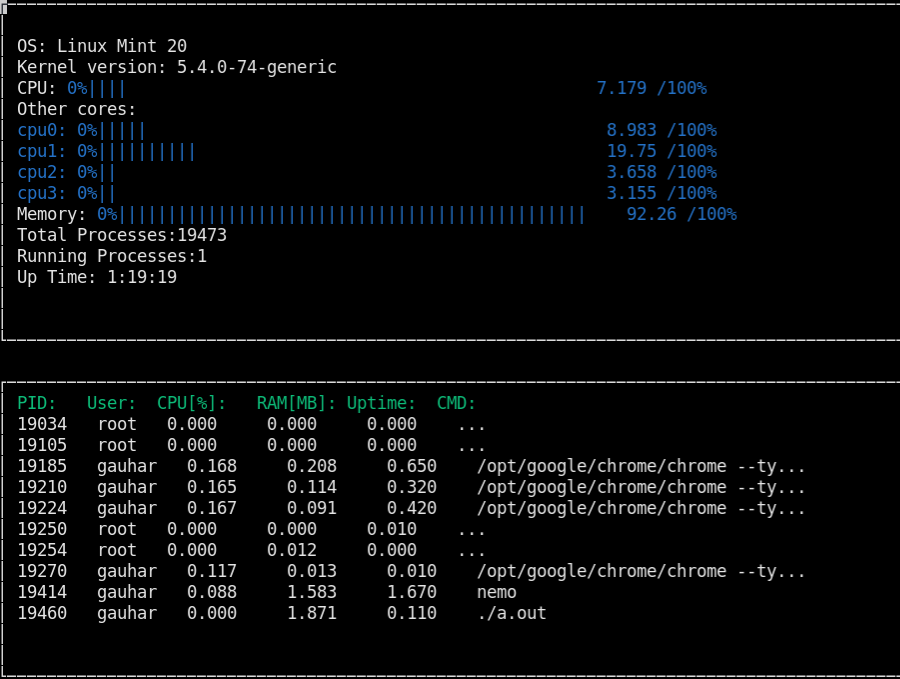
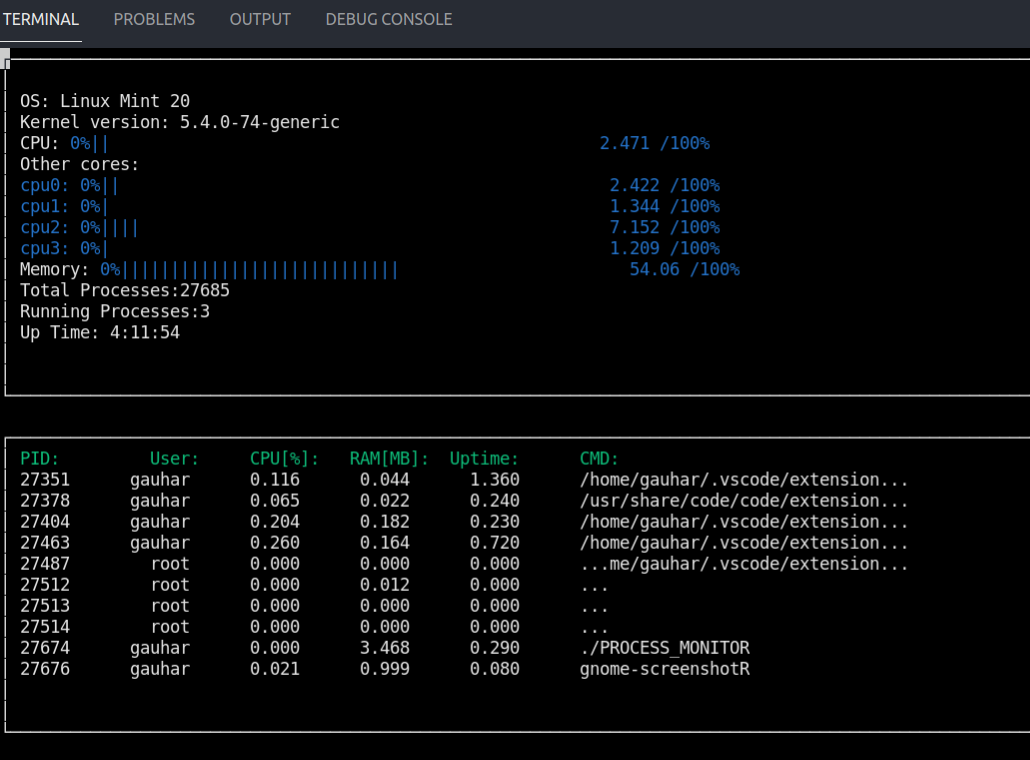
updated spacing in process list columns

diff --git a/src/Process.h b/src/Process.h
@@ -52,16 +52,22 @@ string Process::getProcess() {
     this->mem = ProcessParser::getVmSize(this->pid);
     this->upTime = ProcessParser::getProcUpTime(this->pid);
     this->cpu = ProcessParser::getCpuPercent(this->pid);
+    
+    int len = this->user.length();
+    string spaces;
+    int spaceLength = 12-len;
 
-    return(this->pid + "   "
+    spaces.append(spaceLength,' ');
+
+    return(this->pid + spaces
         + this->user
-        + "   "
+        + "      "
         + this->mem.substr(0,5)
-        + "     "
+        + "      "
         + this->cpu.substr(0,5)
-        + "     "
+        + "      "
         + this->upTime.substr(0,5)
-        + "    "
+        + "      "
         + this->cmd.substr(0,30)
         + "...");
 }

diff --git a/src/main.cpp b/src/main.cpp
@@ -50,11 +50,11 @@ void getProcessListToConsole(ProcessContainer procs,WINDOW* win) {
     procs.refreshList();
     wattron(win,COLOR_PAIR(2));
     mvwprintw(win,1,2,"PID:");
-    mvwprintw(win,1,9,"User:");
-    mvwprintw(win,1,16,"CPU[%]:");
-    mvwprintw(win,1,26,"RAM[MB]:");
-    mvwprintw(win,1,35,"Uptime:");
-    mvwprintw(win,1,44,"CMD:");
+    mvwprintw(win,1,15,"User:");
+    mvwprintw(win,1,25,"CPU[%]:");
+    mvwprintw(win,1,35,"RAM[MB]:");
+    mvwprintw(win,1,45,"Uptime:");
+    mvwprintw(win,1,58,"CMD:");
     wattroff(win, COLOR_PAIR(2));
 
     vector<std::string> processes = procs.getList();
